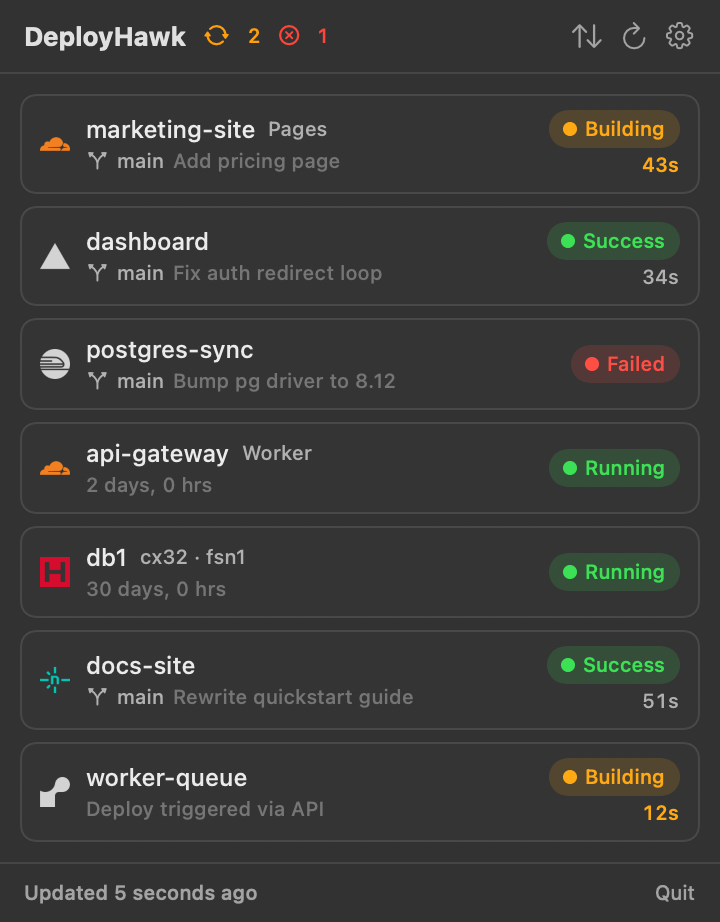
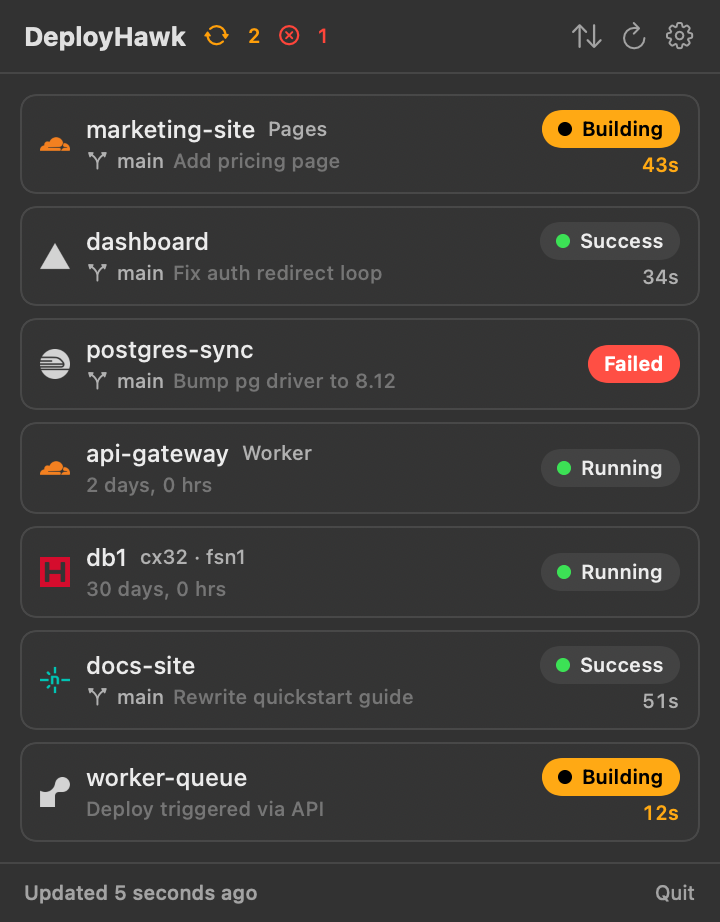
SessionHawk-style status badges for readable contrast
Solid orange/red pills with black/white text for building and failed;
neutral pill with a green dot and primary text for success/running.
No more colored text on colored translucency.

diff --git a/Sources/Views/ProjectRowView.swift b/Sources/Views/ProjectRowView.swift
@@ -7,33 +7,55 @@ enum StaticRender {
     static var enabled = false
 }
 
+/// Status badge tuned for translucent menu bar backdrops (SessionHawk style):
+/// solid fills with guaranteed-contrast text for attention states, a subtle
+/// neutral pill with a colored dot for the rest — never colored text over
+/// colored translucency.
 struct StatusBadge: View {
     let state: DeployState
 
-    private var color: Color {
+    var body: some View {
+        HStack(spacing: 5) {
+            if state == .building && !StaticRender.enabled {
+                ProgressView()
+                    .controlSize(.mini)
+                    .tint(.black)
+            } else if let dot = dotColor {
+                Circle().fill(dot).frame(width: 7, height: 7)
+            }
+            Text(state.label)
+                .font(.caption.weight(.semibold))
+                .foregroundStyle(textColor)
+        }
+        .padding(.horizontal, 8)
+        .padding(.vertical, 3)
+        .background(background, in: Capsule())
+    }
+
+    private var background: Color {
         switch state {
         case .building: return .orange
-        case .success, .running: return .green
         case .failure: return .red
-        case .stopped, .canceled: return .gray
-        case .unknown: return .secondary.opacity(0.5)
+        default: return Color.primary.opacity(0.08)
         }
     }
 
-    var body: some View {
-        HStack(spacing: 4) {
-            if state == .building && !StaticRender.enabled {
-                ProgressView().controlSize(.mini)
-            } else {
-                Circle().fill(color).frame(width: 7, height: 7)
-            }
-            Text(state.label)
-                .font(.caption2.weight(.medium))
+    private var textColor: Color {
+        switch state {
+        case .building: return .black
+        case .failure: return .white
+        case .success, .running: return .primary
+        case .stopped, .canceled, .unknown: return .secondary
         }
-        .padding(.horizontal, 7)
-        .padding(.vertical, 3)
-        .background(color.opacity(0.15), in: Capsule())
-        .foregroundStyle(color)
+    }
+
+    private var dotColor: Color? {
+        switch state {
+        case .success, .running: return .green
+        case .stopped, .canceled: return .secondary
+        case .building: return .black
+        case .failure, .unknown: return nil
+        }
     }
 }
 
